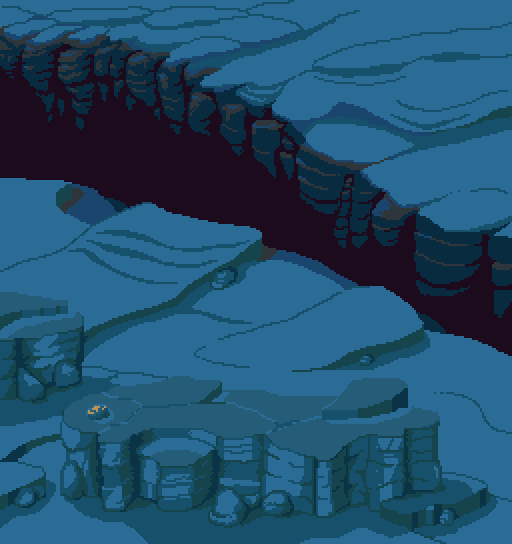
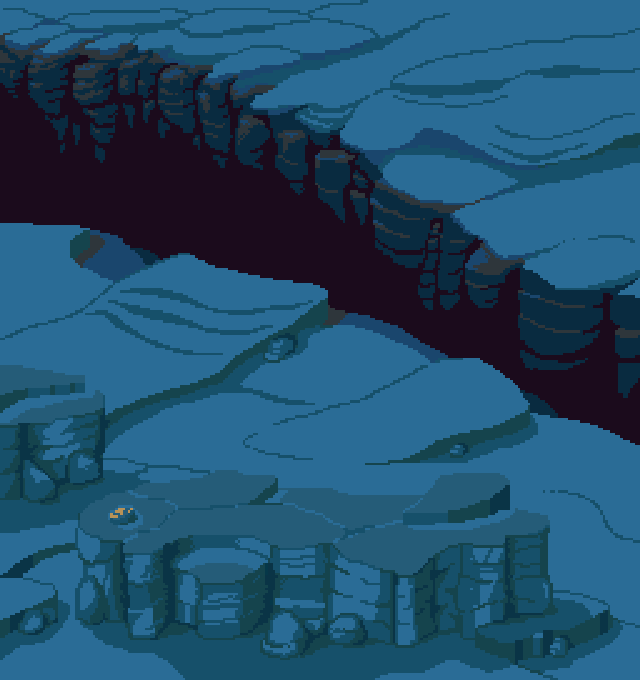
fixed scrolling backgrounds

diff --git a/js/SceneMain.js b/js/SceneMain.js
@@ -28,6 +28,11 @@ class SceneMain extends Phaser.Scene {
     
     create() {
         
+        //Create Scrolling Backgrounds
+        this.tileSprite = this.add.tileSprite(this.game.config.width/2, this.game.config.height/2, 640, 680, 'bg');
+        this.tileSprite2 = this.add.tileSprite(this.game.config.width/2, this.game.config.height/2, 640, 680, 'clouds');
+        this.tileSprite3 = this.add.tileSprite(this.game.config.width/2, this.game.config.height/2, 640, 680, 'transparentClouds');
+        
         //Theme Music
         var music = this.sound.add('theme');
         music.setLoop(true);
@@ -50,14 +55,6 @@ class SceneMain extends Phaser.Scene {
         
         //Sound Effects
         this.sfx = {};
-        
-        //Backgrounds
-        this.backgrounds = [];
-        for (var i = 0; i < 2; i++) {
-            var bg = new ScrollingBackground(this, 'bg', i * 10);
-            this.backgrounds.push(bg);
-        }
-        
         
         //Instantiate Player
         this.player = new Player(this, this.game.config.width * 0.5, this.game.config.height * 0.5, 'player');
@@ -148,6 +145,11 @@ class SceneMain extends Phaser.Scene {
     
     update() {
         
+        //Update Backgrounds
+        this.tileSprite.tilePositionY -= 1;
+        this.tileSprite2.tilePositionY += 3;
+        this.tileSprite3.tilePositionY -= 1;
+        
         //Update Player
         if(!this.player.getData('isDead')) {
             this.player.update();
@@ -222,11 +224,6 @@ class SceneMain extends Phaser.Scene {
                     laser.destroy();
                 }
             }
-        }
-        
-        //Update Backgrounds
-        for (var i = 0; i < this.backgrounds.length; i++) {
-            this.backgrounds[i].update();
         }
     }
 }

diff --git a/js/SceneGameOver.js b/js/SceneGameOver.js
@@ -5,6 +5,10 @@ class SceneGameOver extends Phaser.Scene {
   }
     
   create() {
+      
+    this.tileSprite = this.add.tileSprite(this.game.config.width/2, this.game.config.height/2, 640, 680, 'bg');
+    this.tileSprite2 = this.add.tileSprite(this.game.config.width/2, this.game.config.height/2, 640, 680, 'clouds');
+    this.tileSprite3 = this.add.tileSprite(this.game.config.width/2, this.game.config.height/2, 640, 680, 'transparentClouds');
 
     this.title = this.add.text(this.game.config.width * 0.5, 128, "Game Over", {
       fontFamily: 'monospace',
@@ -46,17 +50,12 @@ class SceneGameOver extends Phaser.Scene {
       this.btnRestart.setTexture("sprBtnRestart");
       this.scene.start("SceneMain");
     }, this);
-
-    this.backgrounds = [];
-    for (var i = 0; i < 2; i++) {
-      var bg = new ScrollingBackground(this, 'bg', i * 10);
-      this.backgrounds.push(bg);
-    }
   }
 
   update() {
-    for (var i = 0; i < this.backgrounds.length; i++) {
-      this.backgrounds[i].update();
-    }
+    
+    this.tileSprite.tilePositionY -= 1;
+    this.tileSprite2.tilePositionY -= 3;
+    this.tileSprite3.tilePositionY -= 1;
   }
 }

diff --git a/js/SceneMainMenu.js b/js/SceneMainMenu.js
@@ -19,6 +19,11 @@ class SceneMainMenu extends Phaser.Scene {
   }
 
   create() {
+      
+    this.tileSprite = this.add.tileSprite(this.game.config.width/2, this.game.config.height/2, 640, 680, 'bg');
+    this.tileSprite2 = this.add.tileSprite(this.game.config.width/2, this.game.config.height/2, 640, 680, 'clouds');
+    this.tileSprite3 = this.add.tileSprite(this.game.config.width/2, this.game.config.height/2, 640, 680, 'transparentClouds');
+      
     var music = this.sound.add('theme');
         music.setLoop(true);
         music.play();
@@ -63,17 +68,13 @@ class SceneMainMenu extends Phaser.Scene {
       align: 'center'
     });
     this.title.setOrigin(0.5);
-
-    this.backgrounds = [];
-    for (var i = 0; i < 2; i++) {
-      var bg = new ScrollingBackground(this, 'bg', i * 10);
-      this.backgrounds.push(bg);
-    }
   }
 
   update() {
-    for (var i = 0; i < this.backgrounds.length; i++) {
-      this.backgrounds[i].update();
-    }
+    
+    this.tileSprite.tilePositionY -= 1;
+    this.tileSprite2.tilePositionY -= 3;
+    this.tileSprite3.tilePositionY -= 1;
+    
   }
 }

diff --git a/js/game.js b/js/game.js
@@ -1,7 +1,7 @@
 var config = {
     type: Phaser.WEBGL,
-    width: 500,
-    height: 500,
+    width: 640,
+    height: 680,
     backgroundColor: 'black',
     physics: {
         default: 'arcade',
